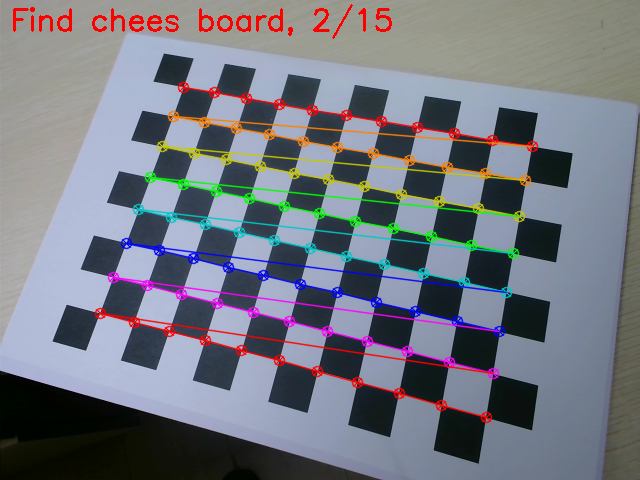
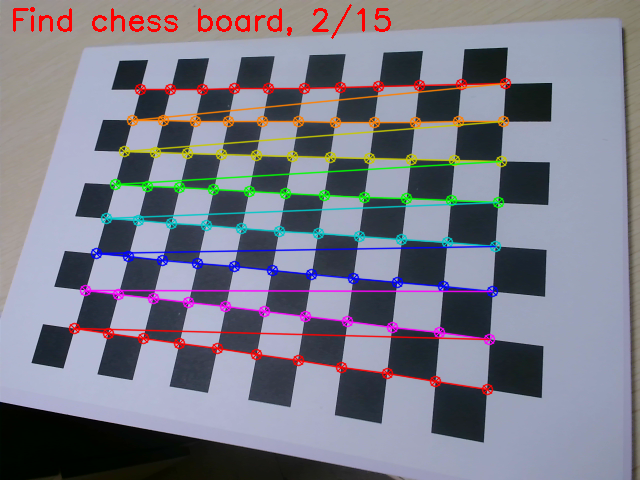
fix name error

diff --git a/scripts/calibrate.py b/scripts/calibrate.py
@@ -62,7 +62,7 @@ def main():
             )
             cv2.drawChessboardCorners(frame,pattern_size,refines_corners,ret)
          
-        cv2.putText(frame, f"Find chees board, {full_corner_found}/15",(10,30), cv2.FONT_HERSHEY_SIMPLEX, 1.0, (0, 0, 255), 2)
+        cv2.putText(frame, f"Find chess board, {full_corner_found}/15",(10,30), cv2.FONT_HERSHEY_SIMPLEX, 1.0, (0, 0, 255), 2)
         cv2.imshow(f"{args.order} image",frame)
         key = cv2.waitKey(1)
         if key == ord('q'):
